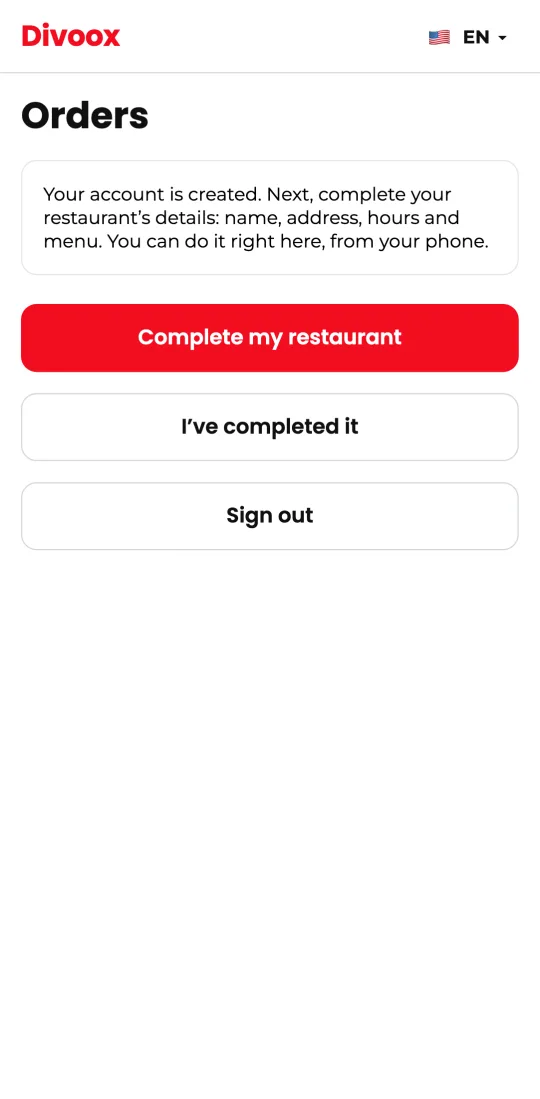
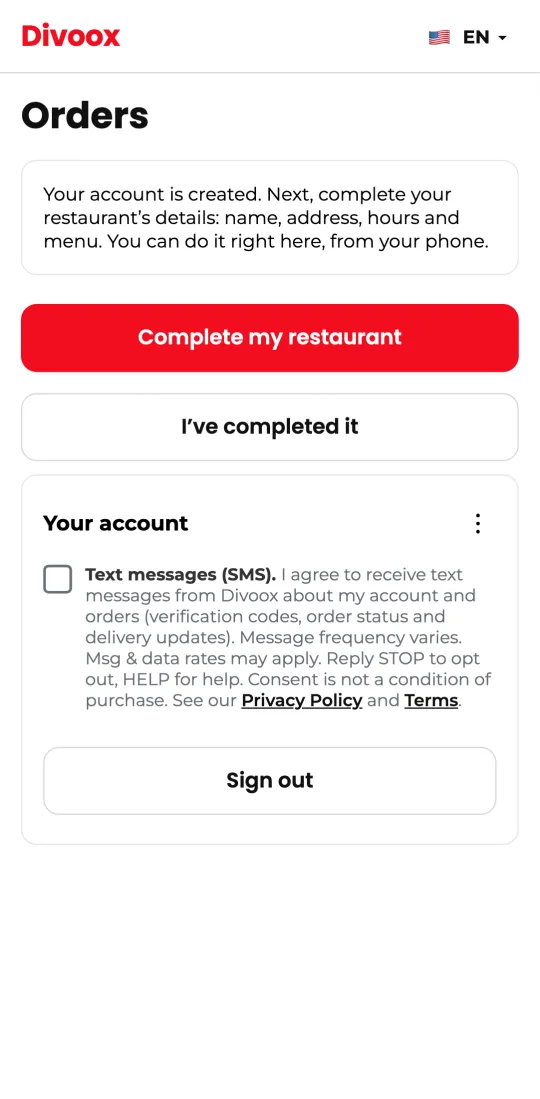
fix(restaurante): la cuenta recién creada se cierra y se borra desde la pantalla «sin restaurante», sin tener que completar el restaurante (C-RESTAURANTE-DESDE-EL-TELEFONO, Apple 5.1.1 v) — todos los países

Changed region(s): [[0.0593, 0.4641, 0.8889, 0.6497], [0.4148, 0.6806, 0.563, 0.7425]]

diff --git a/apps/restaurante/src/Inicio.tsx b/apps/restaurante/src/Inicio.tsx
@@ -47,9 +47,9 @@ import {
   CodigoQR,
   FotoPedido,
   FotosDelPedido,
+  OpcionesCuenta,
   Pantalla,
   TarjetaAvisosWeb,
-  TEXTOS_MOVIL,
   URL_SERVIDOR,
   abrirPanel,
   e,
@@ -357,7 +357,7 @@ const TEXTOS_LOCAL = {
 
 export function Inicio() {
   useKeepAwake(); // La tablet del mostrador no se apaga mientras la app está abierta.
-  const { api, idioma, salir, cambiarIdioma } = useSesion();
+  const { api, idioma, cambiarIdioma } = useSesion();
   const t = enIdioma(T, idioma);
   const tr = textosRest(idioma);
   const { width } = useWindowDimensions();
@@ -377,7 +377,6 @@ export function Inicio() {
     const r = setInterval(() => setAhora(Date.now()), 1000);
     return () => clearInterval(r);
   }, []);
-  const tm = enIdioma(TEXTOS_MOVIL, idioma);
   const alarma = useAudioPlayer(sonidoAlarma);
   const estadoAlarma = useAudioPlayerStatus(alarma);
   const [pedidos, setPedidos] = useState<Pedido[]>([]);
@@ -517,7 +516,9 @@ export function Inicio() {
           alTocar={() => void abrirPanel(api, URL_SERVIDOR, '/panel')}
         />
         <Boton texto={t.yaLoComplete} alTocar={() => void cargar()} secundario />
-        <Boton texto={tm.salir} alTocar={() => void salir()} secundario />
+        {/* Quien creó su cuenta aquí la puede cerrar y BORRAR desde aquí mismo, aunque todavía no
+            haya completado el restaurante (Apple 5.1.1 v; hallazgo del auditor de tiendas, 20 nov 2026). */}
+        <OpcionesCuenta />
       </Pantalla>
     );
   }

diff --git a/e2e/recorrido/pantallasDeEntrada.spec.ts b/e2e/recorrido/pantallasDeEntrada.spec.ts
@@ -166,6 +166,18 @@ for (const idioma of ['es', 'en'] as const) {
     expect(sqlLocal(`SELECT rol FROM usuarios WHERE correo = '${correo}'`)[0]).toMatchObject({
       rol: 'restaurante',
     });
+    // La cuenta recién creada se borra desde esa misma pantalla, sin completar el restaurante.
+    await p.getByTestId('cuenta-tres-puntos').click();
+    await p.getByTestId('borrar-cuenta').click();
+    await p
+      .getByPlaceholder(en ? 'Type DELETE to confirm' : 'Escribe BORRAR para confirmar')
+      .fill(en ? 'DELETE' : 'BORRAR');
+    await guardar(p, 'app-restaurante-app-borrar-cuenta');
+    await p.getByRole('button', { name: en ? 'Delete my account' : 'Borrar mi cuenta' }).click();
+    await expect(
+      p.getByText(en ? 'Your account was deleted' : 'Tu cuenta quedó borrada'),
+    ).toBeVisible();
+    expect(sqlLocal(`SELECT id FROM usuarios WHERE correo = '${correo}'`)).toHaveLength(0);
     await ctx.close();
   });
 

diff --git a/packages/compartido/src/candadoPantallasDeEntrada.test.ts b/packages/compartido/src/candadoPantallasDeEntrada.test.ts
@@ -78,6 +78,11 @@ describe('C-RESTAURANTE-DESDE-EL-TELEFONO y C-AYUDA-A-LA-VISTA', () => {
   });
   it('quien crea su cuenta en la app la puede borrar desde la app (lo exige Apple)', () => {
     expect(leer('apps/restaurante/src/Mas.tsx')).toContain('OpcionesCuenta');
+    // También ANTES de completar el restaurante: la pantalla «sin restaurante» no tiene «Más»
+    // (hallazgo del auditor de tiendas, 20 nov 2026; visto en rojo con el botón «Salir» suelto).
+    const inicio = leer('apps/restaurante/src/Inicio.tsx');
+    const sinRest = inicio.slice(inicio.indexOf('if (rest === null) {'));
+    expect(sinRest.slice(0, sinRest.indexOf('</Pantalla>'))).toContain('<OpcionesCuenta />');
     expect(leer('packages/movil/src/OpcionesCuenta.tsx')).toContain('testID="borrar-cuenta"');
   });
 });

diff --git a/CANDADOS.md b/CANDADOS.md
@@ -5937,7 +5937,7 @@ Completa a C-DOCS-AL-GRANO y C-SEO-DESCRIPCION (más arriba, mismo día), que ya
 
 - **Qué pasaba:** la pantalla de entrar de Divoox Restaurants decía «Las cuentas de restaurante se crean en divoox.com/panel. Aquí solo entras», sin enlace, sin botón y sin soporte: exigía una computadora.
 - **Arreglo:** la app usa la misma pantalla de acceso con `rolRegistro="restaurante"`: «Crear cuenta de restaurante» crea la cuenta dentro de la app (mismo registro del panel). Ya dentro, «Completar mi restaurante» abre la ficha del panel dentro de la app con la sesión iniciada (C-PUENTE-PANEL) y «Ya lo completé» vuelve a comprobar. En entrar y en crear cuenta de las tres apps, y en el acceso del panel web, hay «¿Necesitas ayuda?» que abre Soporte sin iniciar sesión.
-- **Tiendas:** la cuenta creada en la app se borra desde la app («Más», «Borrar mi cuenta», `OpcionesCuenta`). La pantalla de entrar de Restaurants cambió: el auditor de tiendas lo revisa antes de cualquier envío.
+- **Tiendas:** la cuenta creada en la app se borra desde la app («Más», «Borrar mi cuenta», `OpcionesCuenta`). Desde el 20 nov 2026 (hallazgo del auditor de tiendas) también desde la pantalla «sin restaurante», que no tiene «Más»: ahí va `<OpcionesCuenta />` en lugar del botón «Salir» suelto; el candado lo exige y el recorrido borra la cuenta recién creada desde esa pantalla (visto en rojo). La pantalla de entrar de Restaurants cambió: el auditor de tiendas lo revisa antes de cualquier envío.
 - **Pruebas (vistas en rojo):** las mismas dos de arriba.
 
 ## C-FECHA-MODERNA — una sola casilla de fecha, con el orden del país (19 nov 2026, orden de Richard) — todos los países
